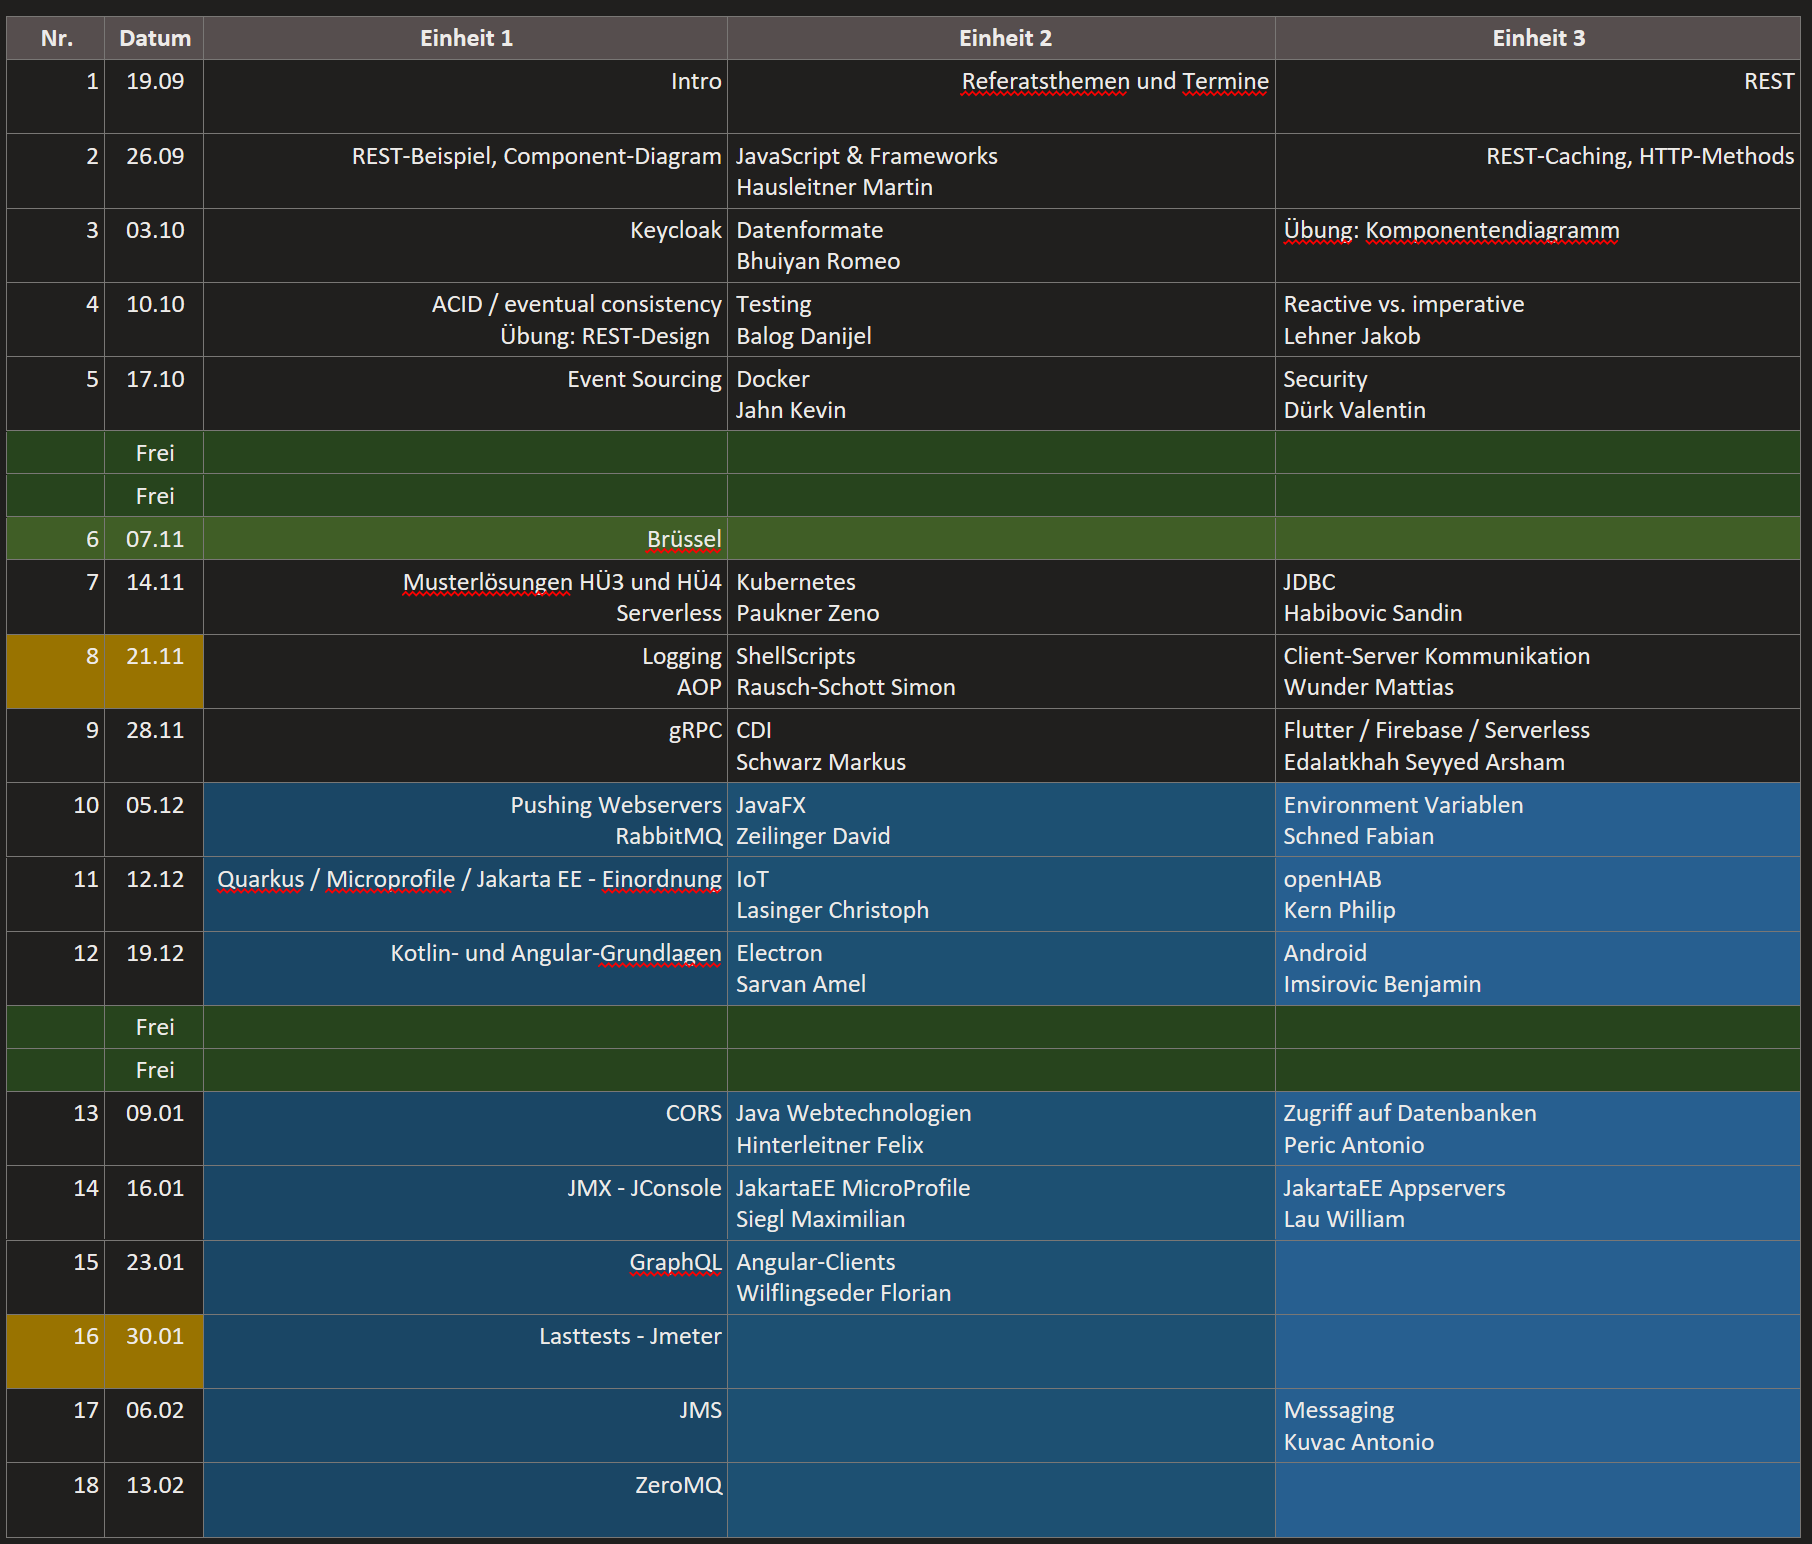
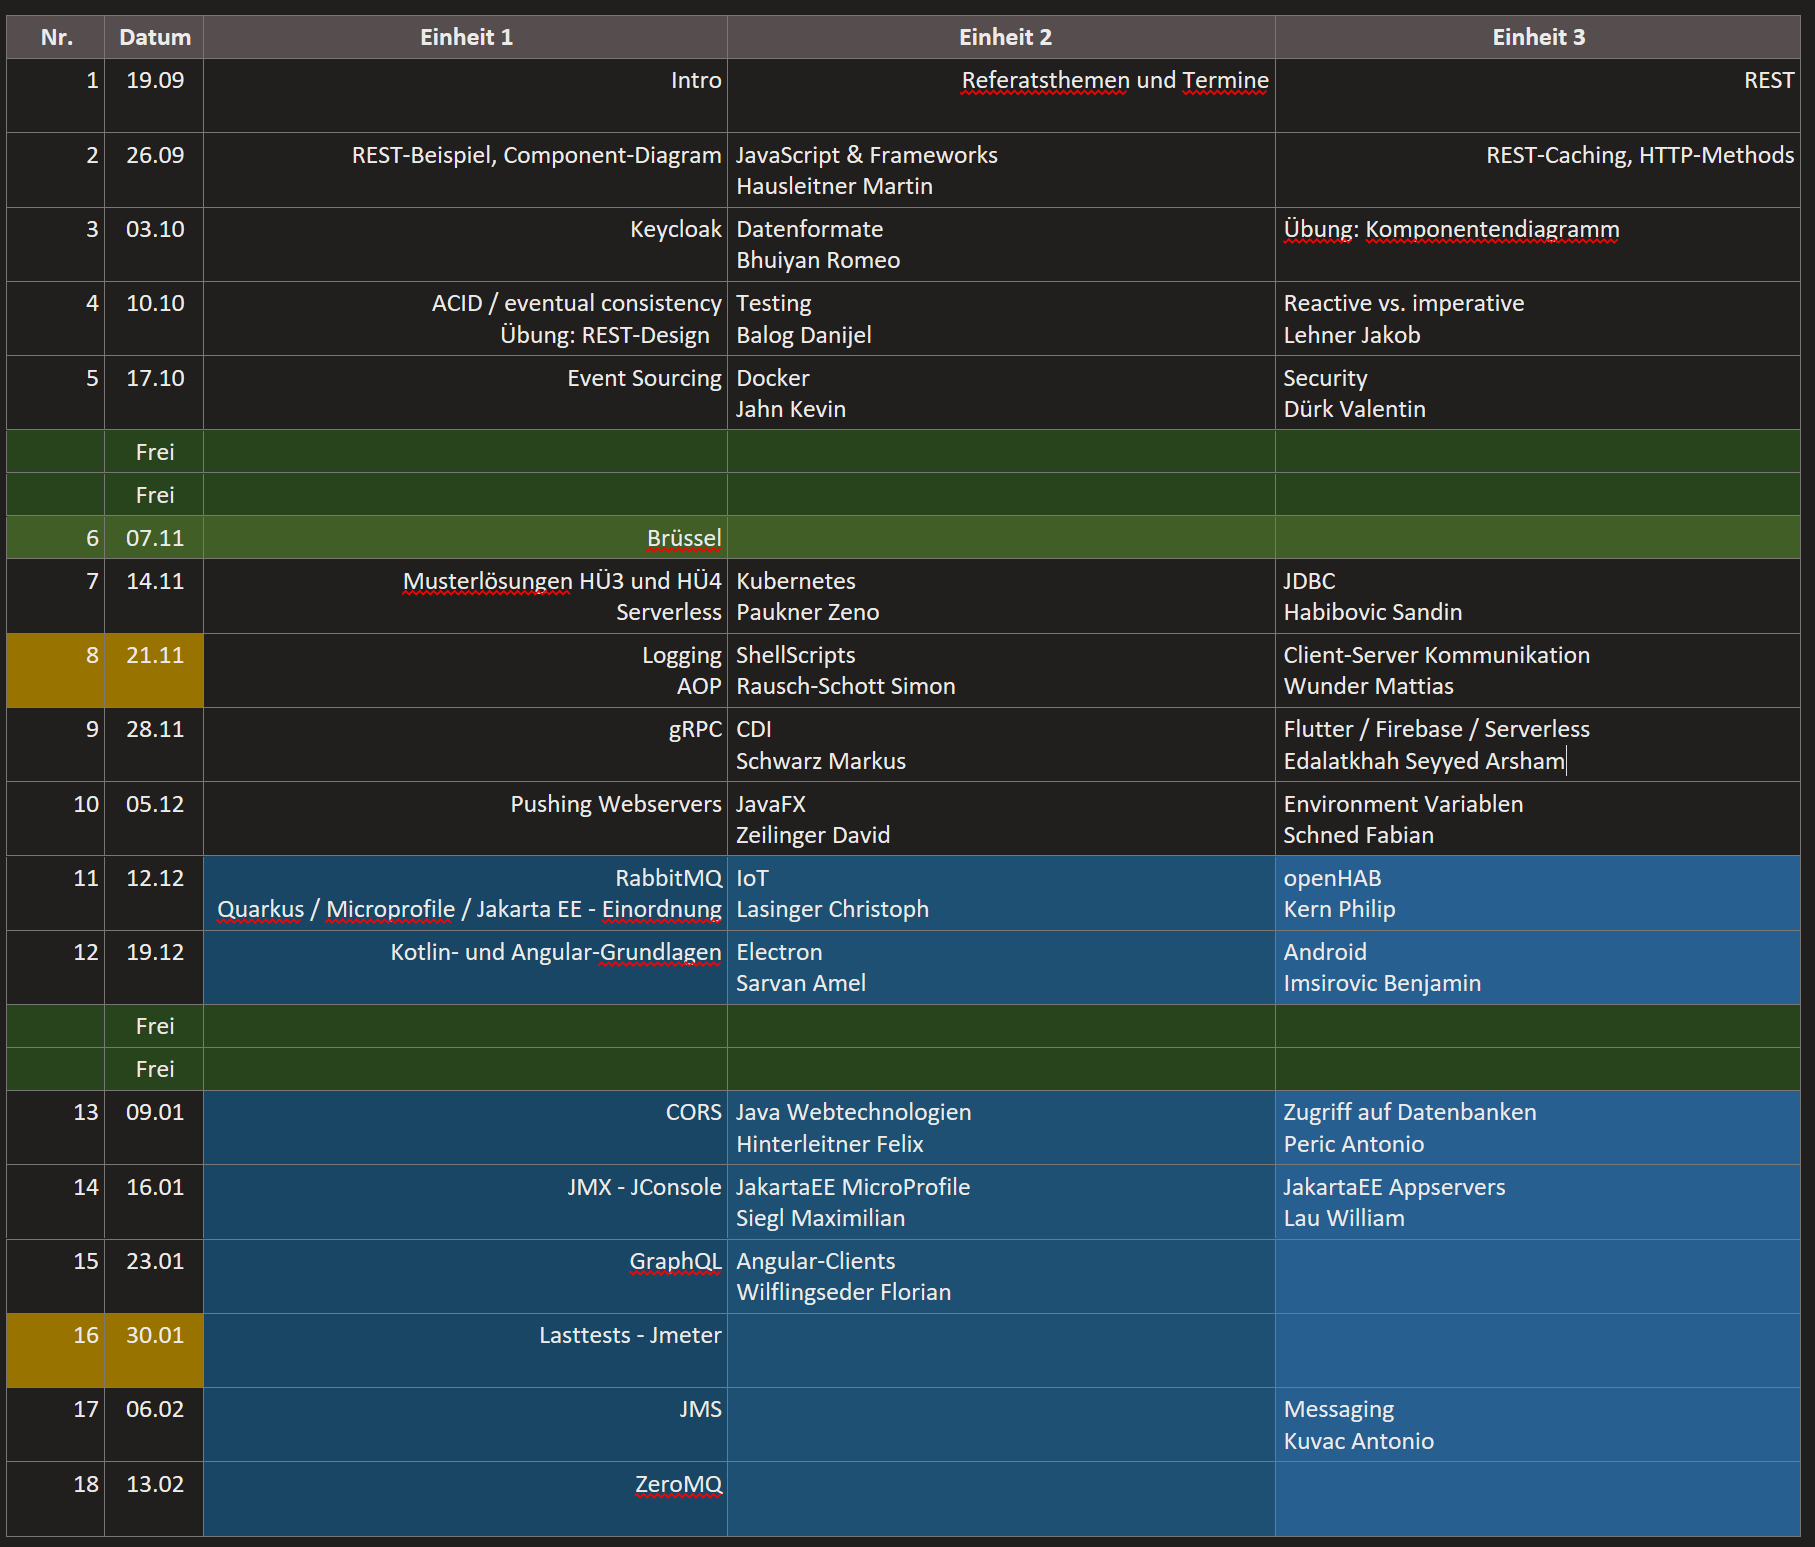
update

diff --git a/5BHIF-NVSV.md b/5BHIF-NVSV.md
@@ -18,9 +18,8 @@ https://classroom.github.com/a/0pIFwT2Q
 
 
 
-## 8. Einheit 2022-12-05
+## 9. Einheit 2022-12-12
 
-* [Pushing Webservers](https://github.com/UnterrainerInformatik/htl/blob/master/presentations/pushing-webservers.pdf)
 * [Message Queues](https://github.com/UnterrainerInformatik/htl/blob/master/presentations/message-queues.pdf)
 * Fragen
   * **ACID / BASE / Event Sourcing**
@@ -53,6 +52,16 @@ https://classroom.github.com/a/0pIFwT2Q
 ### Hausübung
 
 Nichts
+
+
+
+## 8. Einheit 2022-12-05
+
+* [Pushing Webservers](https://github.com/UnterrainerInformatik/htl/blob/master/presentations/pushing-webservers.pdf)
+
+### Hausübung
+
+Verlängerung von letzter Woche
 
 
 

diff --git a/5CHIF-NVSV.md b/5CHIF-NVSV.md
@@ -18,9 +18,8 @@ https://classroom.github.com/a/QTfc9_Zk
 
 
 
-## 8. Einheit 2022-12-05
+## 9. Einheit 2022-12-12
 
-* [Pushing Webservers](https://github.com/UnterrainerInformatik/htl/blob/master/presentations/pushing-webservers.pdf)
 * [Message Queues](https://github.com/UnterrainerInformatik/htl/blob/master/presentations/message-queues.pdf)
 * Fragen
   * **ACID / BASE / Event Sourcing**
@@ -53,6 +52,16 @@ https://classroom.github.com/a/QTfc9_Zk
 ### Hausübung
 
 Nichts
+
+
+
+## 8. Einheit 2022-12-05
+
+* [Pushing Webservers](https://github.com/UnterrainerInformatik/htl/blob/master/presentations/pushing-webservers.pdf)
+
+### Hausübung
+
+Verlängerung von letzter Woche
 
 
 
